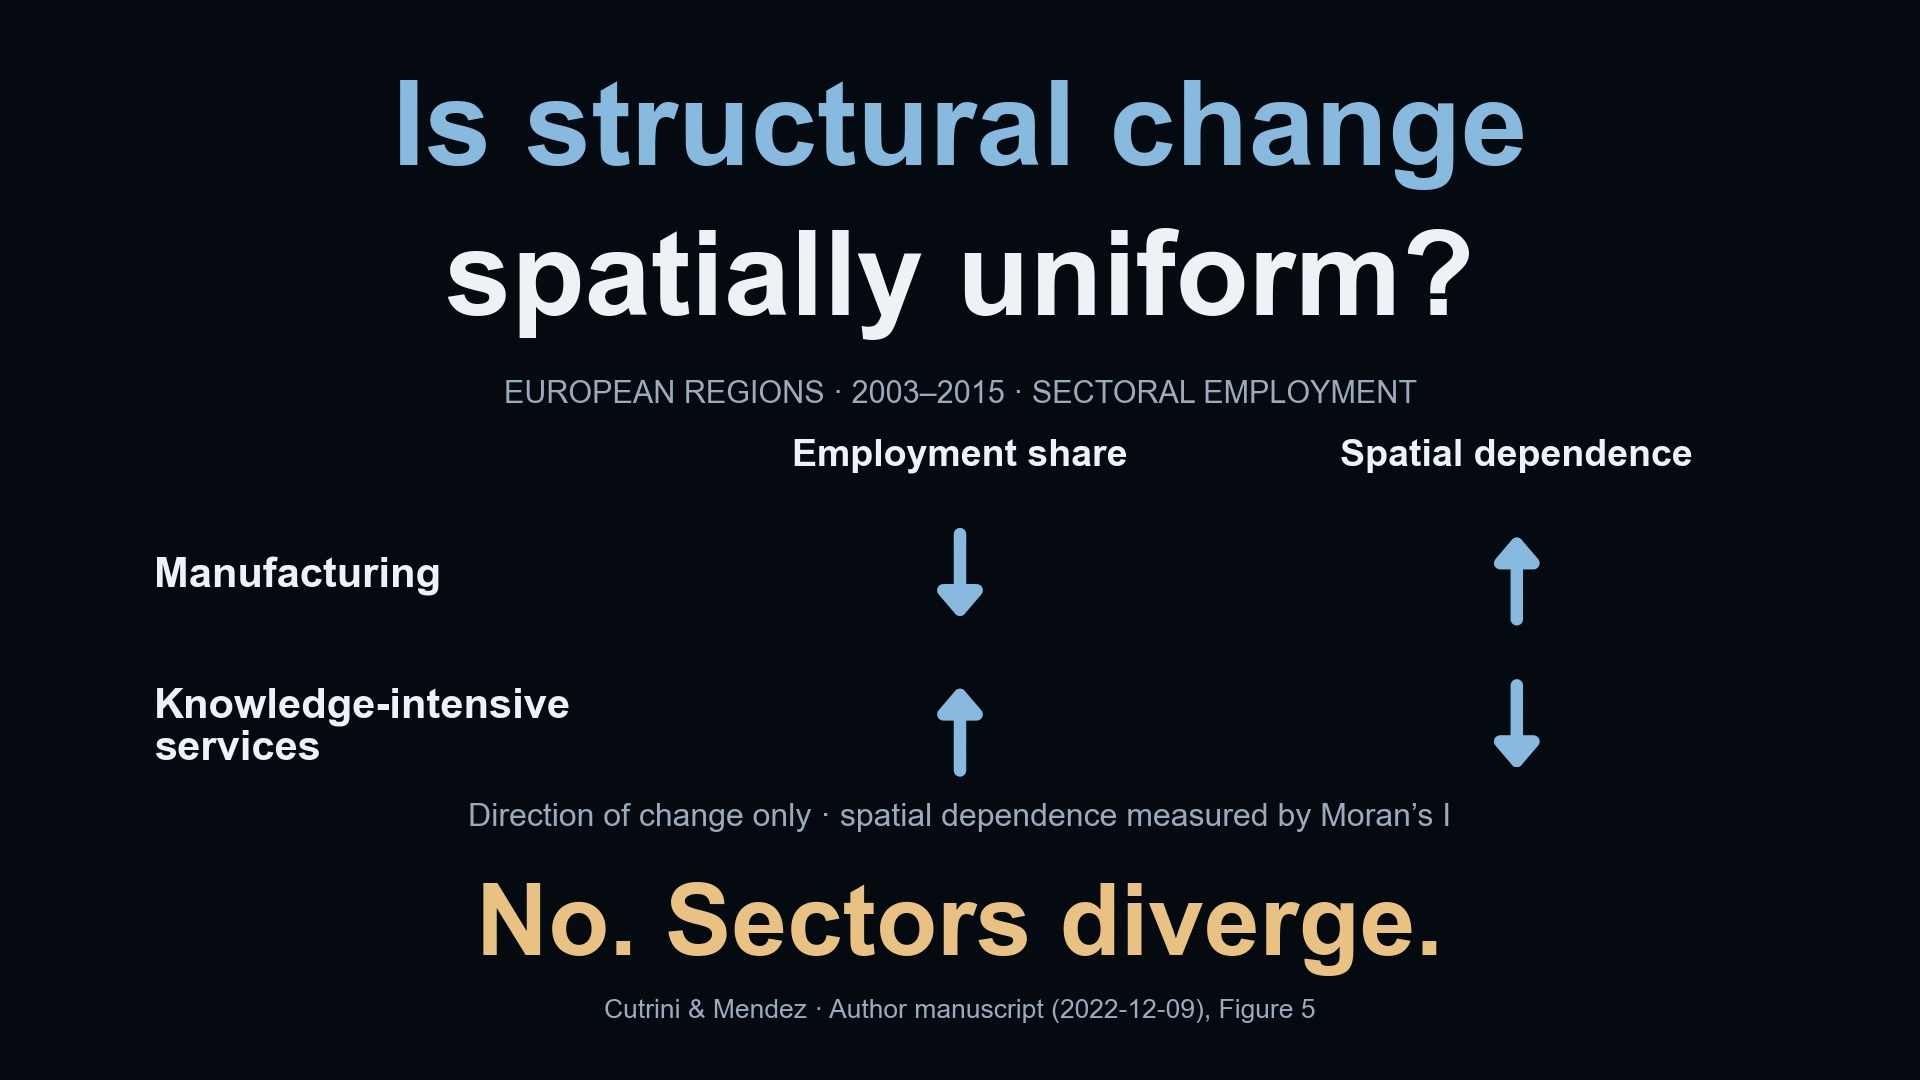
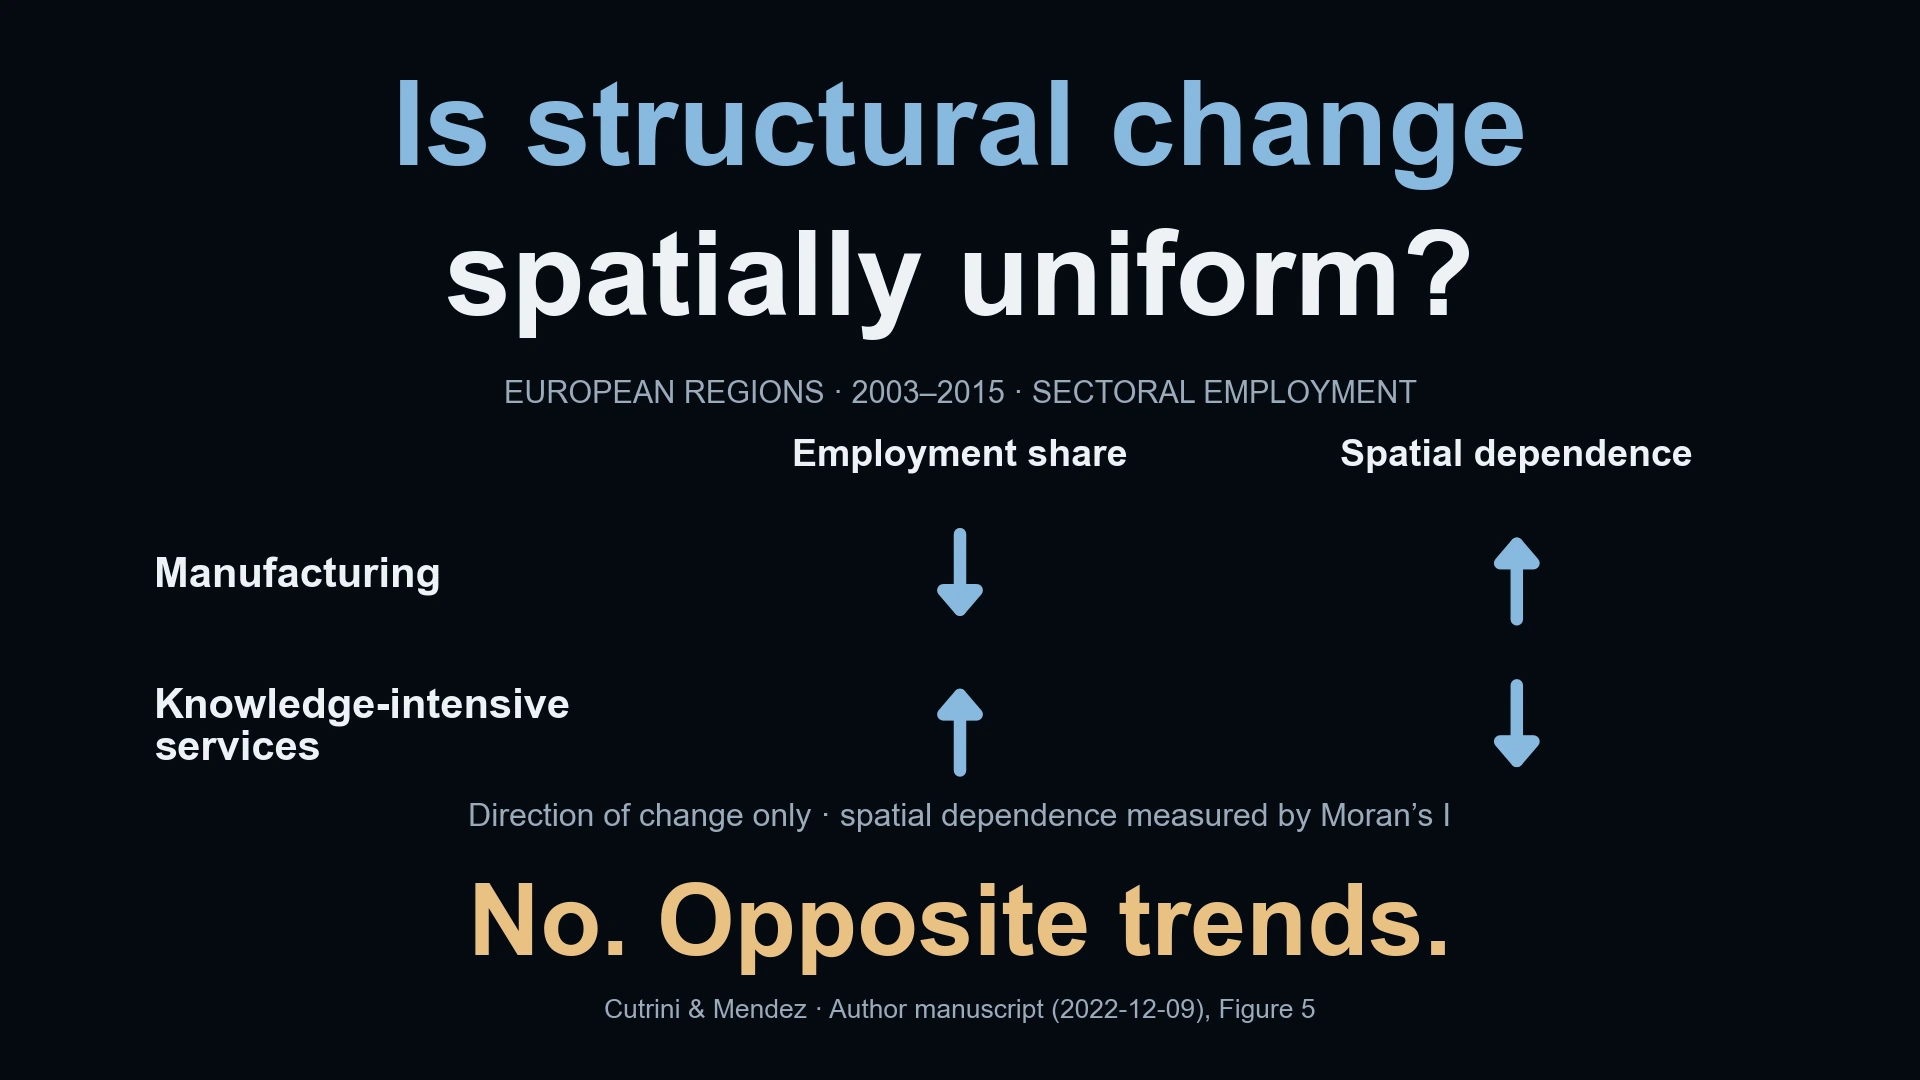
articles: complete remaining paper and chapter infographics

Changed region(s): [[0.25, 0.7944, 0.75, 0.9167]]

diff --git a/logs/2026-10-10-complete-paper-infographics.md b/logs/2026-10-10-complete-paper-infographics.md
@@ -1,0 +1,46 @@
+# Complete the remaining article and chapter infographics
+
+Completed the question → source-supported evidence → answer artwork for all 40
+Articles entries, including three book chapters and the book review. This change
+adds six remaining designs and refreshes two previously installed candidates.
+Existing publication text, dates, DOI fields, buttons and layout are preserved.
+
+All eight updates use identical 1920×1080 WebP artwork in EN/ES/JA, with localized
+`image.alt_text`. The five Books entries, approved Okun infographic and approved
+commuting infographic are unchanged. No skills or shared viewer templates changed.
+
+| Bundle | Selected evidence | Full image bytes |
+|---|---|---:|
+| `20151001BOOKch` | Median relative output: 19%, 34%, 57%; separate accounting scenarios | 100,538 |
+| `20200901-Industrial-Dev-and-Regional-Dev` | Table 18.1 regional-inequality accounting components | 98,086 |
+| `20210701-Indonesia-regional-growth-covid` | Table 2 Moran’s I: +0.181 versus −0.285, overlapping periods | 82,756 |
+| `20211030-StructuralChange` | Published Tables A4–A5, six transitions for each network community | 69,248 |
+| `20220104-ComparativeEcoStud` | Published Tables 5–6; unchanged local coefficient ranges, updated source credit | 47,808 |
+| `20220303-BIES` | Qualitative initial-neighbour-level associations with local growth | 102,566 |
+| `20230802-SCED` | Opposite directional trends; corrected wording avoids claiming divergent levels | 84,154 |
+| `20241219-AE` | Qualitative inequality trends: GDP/VIIRS versus DMSP | 108,424 |
+
+The eight unique full-size files total 693,580 bytes. Exact source values and
+positions are plotted deterministically. No paid image generation was used.
+BIES, EU structural change and China use qualitative evidence with visible author
+manuscript attribution; no unverified numerical journal estimates are substituted.
+The Latin America and industrial-policy chapters credit their inspected author
+proofs. Uncertainty, model scope and noncausal interpretation are retained.
+
+## Validation
+
+- Pinned Hugo 0.111.3 production build with `--gc --minify --buildFuture`.
+- Article parity: 40/40 ES and 40/40 JA; no missing pages or assets.
+- All 120 built article pages: source hashes, localized alt, full/page/archive
+  WebP dimensions and delivered byte counts checked.
+- All 24 updated bundle bodies and frontmatter fields other than `image.alt_text`
+  preserved; South America alt text was already correct and remains unchanged.
+- All 21 protected book/Okun/commuting image hashes unchanged.
+- Browser checks: all 120 article pages at 1440px and 390px (240 combinations),
+  full-image hash/alt/fit, dialog opening and Escape closing, and no overflow.
+  Homepage and Articles catalog passed all six locale/viewport combinations;
+  card images use contain with no filter or transform. Screenshots inspected.
+
+Source PDFs, working plots and evidence ledgers stay outside the website content.
+Existing source-link/page-range discrepancies were recorded for separate metadata
+review rather than changed as part of the thumbnail update.

diff --git a/content/ja/articles/20230802-SCED/index.md b/content/ja/articles/20230802-SCED/index.md
@@ -51,7 +51,7 @@ url_video: ''
 # Featured image
 # To use, add an image named `featured.jpg/png` to your page's folder.
 image:
-  alt_text: "構造変化は空間的に一様でしょうか。2003～2015年の欧州の地域では、製造業の雇用シェアが低下する一方で、その空間的依存性は高まっています。知識集約型サービスは逆で、雇用シェアが上昇する一方、空間的依存性は低下しています。この方向図は、Convergence clubs and spatial structural change in the European Union に関する著者らの2022年12月9日付の原稿の図5をまとめたものです。矢印は方向のみを示し、大きさや統計的有意性は示しません。空間的な経路は逆向きで、記述的な傾向であり、因果効果ではありません。"
+  alt_text: "構造変化は空間的に一様なのでしょうか。2003～2015年の欧州地域では、製造業の雇用比率が低下する一方、空間依存性が高まっています。知識集約型サービスでは逆に、雇用比率が上昇し、空間依存性が低下しています。この方向を示す図は、Convergence clubs and spatial structural change in the European Unionの2022年12月9日付著者原稿の図5を要約しています。矢印は変化の方向のみを示し、大きさや統計的有意性を示すものではありません。いいえ、変化の方向は対照的です。各部門は逆方向に変化していますが、この図は水準の差が拡大することを示すものではありません。これは記述的傾向であり、因果効果ではありません。"
   caption: ''
   focal_point: ""
   preview_only: false

diff --git a/content/es/articles/20230802-SCED/index.md b/content/es/articles/20230802-SCED/index.md
@@ -51,7 +51,7 @@ url_video: ''
 # Featured image
 # To use, add an image named `featured.jpg/png` to your page's folder.
 image:
-  alt_text: "¿Es uniforme el cambio estructural en el espacio? En las regiones europeas durante 2003–2015, la participación de la manufactura en el empleo disminuye mientras su dependencia espacial aumenta. Los servicios intensivos en conocimiento muestran lo contrario: su participación en el empleo aumenta mientras su dependencia espacial disminuye. Este diagrama direccional resume la Figura 5 del manuscrito de los autores del 9 de diciembre de 2022 de Convergence clubs and spatial structural change in the European Union. Las flechas indican solo la dirección, no magnitudes ni significancia estadística. Trayectorias espaciales opuestas; tendencias descriptivas, no efectos causales."
+  alt_text: "¿Es espacialmente uniforme el cambio estructural? En las regiones europeas durante 2003–2015, la participación del empleo manufacturero disminuye mientras aumenta su dependencia espacial. Los servicios intensivos en conocimiento presentan el patrón opuesto: aumenta su participación en el empleo y disminuye su dependencia espacial. Este diagrama de direcciones resume la Figura 5 del manuscrito de los autores fechado el 9 de diciembre de 2022 de Convergence clubs and spatial structural change in the European Union. Las flechas indican únicamente la dirección, no magnitudes ni significación estadística. No. Tendencias opuestas. Los sectores se mueven en direcciones opuestas; el diagrama no afirma que sus niveles se alejen entre sí. Son tendencias descriptivas, no efectos causales."
   caption: ''
   focal_point: ""
   preview_only: false

diff --git a/content/articles/20230802-SCED/index.md b/content/articles/20230802-SCED/index.md
@@ -53,7 +53,7 @@ url_video: ''
 # Featured image
 # To use, add an image named `featured.jpg/png` to your page's folder.
 image:
-  alt_text: "Is structural change spatially uniform? In European regions over 2003–2015, manufacturing’s employment share decreases while its spatial dependence increases. Knowledge-intensive services show the reverse: employment share increases while spatial dependence decreases. This directional diagram summarizes Figure 5 of the authors’ December 9, 2022 manuscript for Convergence clubs and spatial structural change in the European Union. Arrows encode direction only, not magnitudes or statistical significance. Opposite spatial paths; descriptive trends, not causal effects."
+  alt_text: "Is structural change spatially uniform? In European regions over 2003–2015, manufacturing’s employment share decreases while its spatial dependence increases. Knowledge-intensive services show the reverse: employment share increases while spatial dependence decreases. This directional diagram summarizes Figure 5 of the authors’ December 9, 2022 manuscript for Convergence clubs and spatial structural change in the European Union. Arrows encode direction only, not magnitudes or statistical significance. No. Opposite trends. The sectors move in opposite directions; the diagram does not assert that their levels move farther apart. Descriptive trends, not causal effects."
   caption: ''
   focal_point: ""
   preview_only: false

diff --git a/content/ja/articles/20211030-StructuralChange/index.md b/content/ja/articles/20211030-StructuralChange/index.md
@@ -51,6 +51,7 @@ url_video: ''
 # Featured image
 # To use, add an image named `featured.jpg/png` to your page's folder.
 image:
+  alt_text: "生産性は収束しているのでしょうか。日本の106産業は二つのネットワーク・コミュニティに分かれます。2003～2007年から2008～2012年までの六つの4年間の推計で、サービス業を中心とするコミュニティのβ係数は0.012、0、−0.022、−0.009、−0.026、−0.027です。5%水準で有意なのは最後のみです（p=0.011）。ハイテク産業を中心とするコミュニティでは0.046、0.056、0.019、0.052、0.022、0.012で、第1、第2、第4期間が有意です（p=0.024、0.003、0.025）。負のβは追い付きを示します。塗りつぶした点はp<0.05、白抜きの点はp≥0.05です。信頼区間は報告されていません。対照的な二つの経路がみられますが、因果効果を示すものではありません。"
   caption: ''
   focal_point: ""
   preview_only: false

diff --git a/content/ja/articles/20241219-AE/index.md b/content/ja/articles/20241219-AE/index.md
@@ -78,6 +78,7 @@ url_project: ''
 # Featured image
 # To use, add an image named `featured.jpg/png` to your page's folder.
 image:
+  alt_text: "夜間光は地域間の収束を示すのでしょうか。中国の省を対象とした2000～2020年の1人当たり指標の定性的な比較では、GDPの地域格差は縮小し、調整済みVIIRS光量にも同じ大まかな縮小傾向が見られます。調整済みDMSPではこの傾向が持続しません。下向きの矢印は方向のみを表し、不等号はDMSPの異なる傾向を示します。DMSPが一貫して上昇または横ばいであることを意味しません。センサーの選択が重要です。2023年の著者原稿の格差分析と図に基づき、出版論文の要旨でも確認した定性的な要約です。数量、推定軌道、統計的有意性、因果効果は示していません。"
   caption: ''
   focal_point: ""
   preview_only: false

diff --git a/content/es/articles/20241219-AE/index.md b/content/es/articles/20241219-AE/index.md
@@ -78,6 +78,7 @@ url_project: ''
 # Featured image
 # To use, add an image named `featured.jpg/png` to your page's folder.
 image:
+  alt_text: "¿Las luces nocturnas muestran convergencia? Para las provincias chinas en 2000–2020, la comparación cualitativa de medidas per cápita muestra una disminución de la desigualdad regional del PIB y la misma tendencia general en la luminosidad VIIRS armonizada. DMSP armonizado no mantiene ese patrón. Las flechas indican solo la dirección; el signo de desigualdad señala el patrón distinto de DMSP, sin representar una trayectoria siempre ascendente ni plana. El sensor importa. La síntesis se basa en la sección y las figuras de desigualdad del manuscrito de los autores de 2023, corroboradas por el resumen del artículo publicado. No representa magnitudes, trayectorias estimadas, significación estadística ni efectos causales."
   caption: ''
   focal_point: ""
   preview_only: false

diff --git a/content/es/articles/20211030-StructuralChange/index.md b/content/es/articles/20211030-StructuralChange/index.md
@@ -51,6 +51,7 @@ url_video: ''
 # Featured image
 # To use, add an image named `featured.jpg/png` to your page's folder.
 image:
+  alt_text: "¿Converge la productividad? Las 106 industrias de Japón forman dos comunidades de red. En seis transiciones de cuatro años, desde 2003–2007 hasta 2008–2012, la comunidad centrada en servicios tiene coeficientes beta de 0,012; 0; −0,022; −0,009; −0,026 y −0,027; solo el último es significativo al 5% (p=0,011). La comunidad centrada en alta tecnología tiene 0,046; 0,056; 0,019; 0,052; 0,022 y 0,012; el primero, segundo y cuarto son significativos (p=0,024; 0,003; 0,025). Una beta negativa indica convergencia. Los puntos llenos indican p<0,05 y los vacíos p≥0,05. No se reportan intervalos de confianza. Dos trayectorias contrastantes; son asociaciones, no efectos causales."
   caption: ''
   focal_point: ""
   preview_only: false

diff --git a/content/ja/articles/20151001BOOKch/index.md b/content/ja/articles/20151001BOOKch/index.md
@@ -42,6 +42,7 @@ url_video: ''
 # Featured image
 # To use, add an image named `featured.jpg/png` to your page's folder.
 image:
+  alt_text: "生産の格差を縮めるものは何でしょうか。2015年の著者校正刷りに基づく開発会計では、2010年のラテンアメリカの標本国における労働者1人当たり生産の中央値は米国の19%です。投入要素の格差を解消する仮想シナリオでは34%、全要素生産性の格差を解消する別のシナリオでは57%になります。投入要素は資本産出比率と人的資本です。因果効果の推定ではなく、それぞれ別の会計上の仮定であり、不確実性の区間は報告されていません。この分解では生産性の役割がより大きいことを示しています。"
   caption: ''
   focal_point: ""
   preview_only: false

diff --git a/content/ja/articles/20210701-Indonesia-regional-growth-covid/index.md b/content/ja/articles/20210701-Indonesia-regional-growth-covid/index.md
@@ -46,6 +46,7 @@ url_video: ''
 # Featured image
 # To use, add an image named `featured.jpg/png` to your page's folder.
 image:
+  alt_text: "各州は一緒に成長しているのでしょうか。インドネシアの州別GDP成長率について、グローバル・モランのIは2015年第1四半期～2019年第4四半期の+0.181から、感染拡大初期を含む2015年第1四半期～2020年第2四半期の−0.285へ変化しました。距離の逆数を重みとする空間的関連は、正から負へ転じました。報告されたp値は両方とも0.010で、不確実性区間は報告されていません。期間は重複しており、因果関係を示す比較ではありません。Aginta、Miranti、Mendez（2021）、45ページの表2に基づきます。"
   caption: ''
   focal_point: ""
   preview_only: false

diff --git a/content/articles/20241219-AE/index.md b/content/articles/20241219-AE/index.md
@@ -78,6 +78,7 @@ url_project: ''
 # Featured image
 # To use, add an image named `featured.jpg/png` to your page's folder.
 image:
+  alt_text: "Do nightlights show convergence? For Chinese provinces in 2000–2020, a qualitative comparison of per-capita measures shows declining regional inequality in GDP and the same broad decline in harmonized VIIRS luminosity. Harmonized DMSP does not sustain that pattern. Down arrows indicate direction only; the not-equal sign marks DMSP’s different pattern, without implying a uniformly rising or flat path. The sensor matters. This synthesis uses the 2023 author manuscript’s inequality section and figures, corroborated by the published abstract. It shows no magnitudes, fitted trajectories, statistical significance or causal effects."
   caption: ''
   focal_point: ""
   preview_only: false

diff --git a/content/articles/20211030-StructuralChange/index.md b/content/articles/20211030-StructuralChange/index.md
@@ -51,6 +51,7 @@ url_video: ''
 # Featured image
 # To use, add an image named `featured.jpg/png` to your page's folder.
 image:
+  alt_text: "Productivity converging? Japan’s 106 industries form two network communities. For six four-year transitions from 2003–2007 through 2008–2012, the services-centered community has beta estimates 0.012, 0, −0.022, −0.009, −0.026 and −0.027; only the last is significant at 5% (p=0.011). The high-tech-centered community has 0.046, 0.056, 0.019, 0.052, 0.022 and 0.012; the first, second and fourth are significant (p=0.024, 0.003, 0.025). Negative beta indicates catch-up. Filled dots mark p<0.05, open dots p≥0.05. Confidence intervals are not reported. Two contrasting paths; these are associations, not causal effects."
   caption: ''
   focal_point: ""
   preview_only: false
